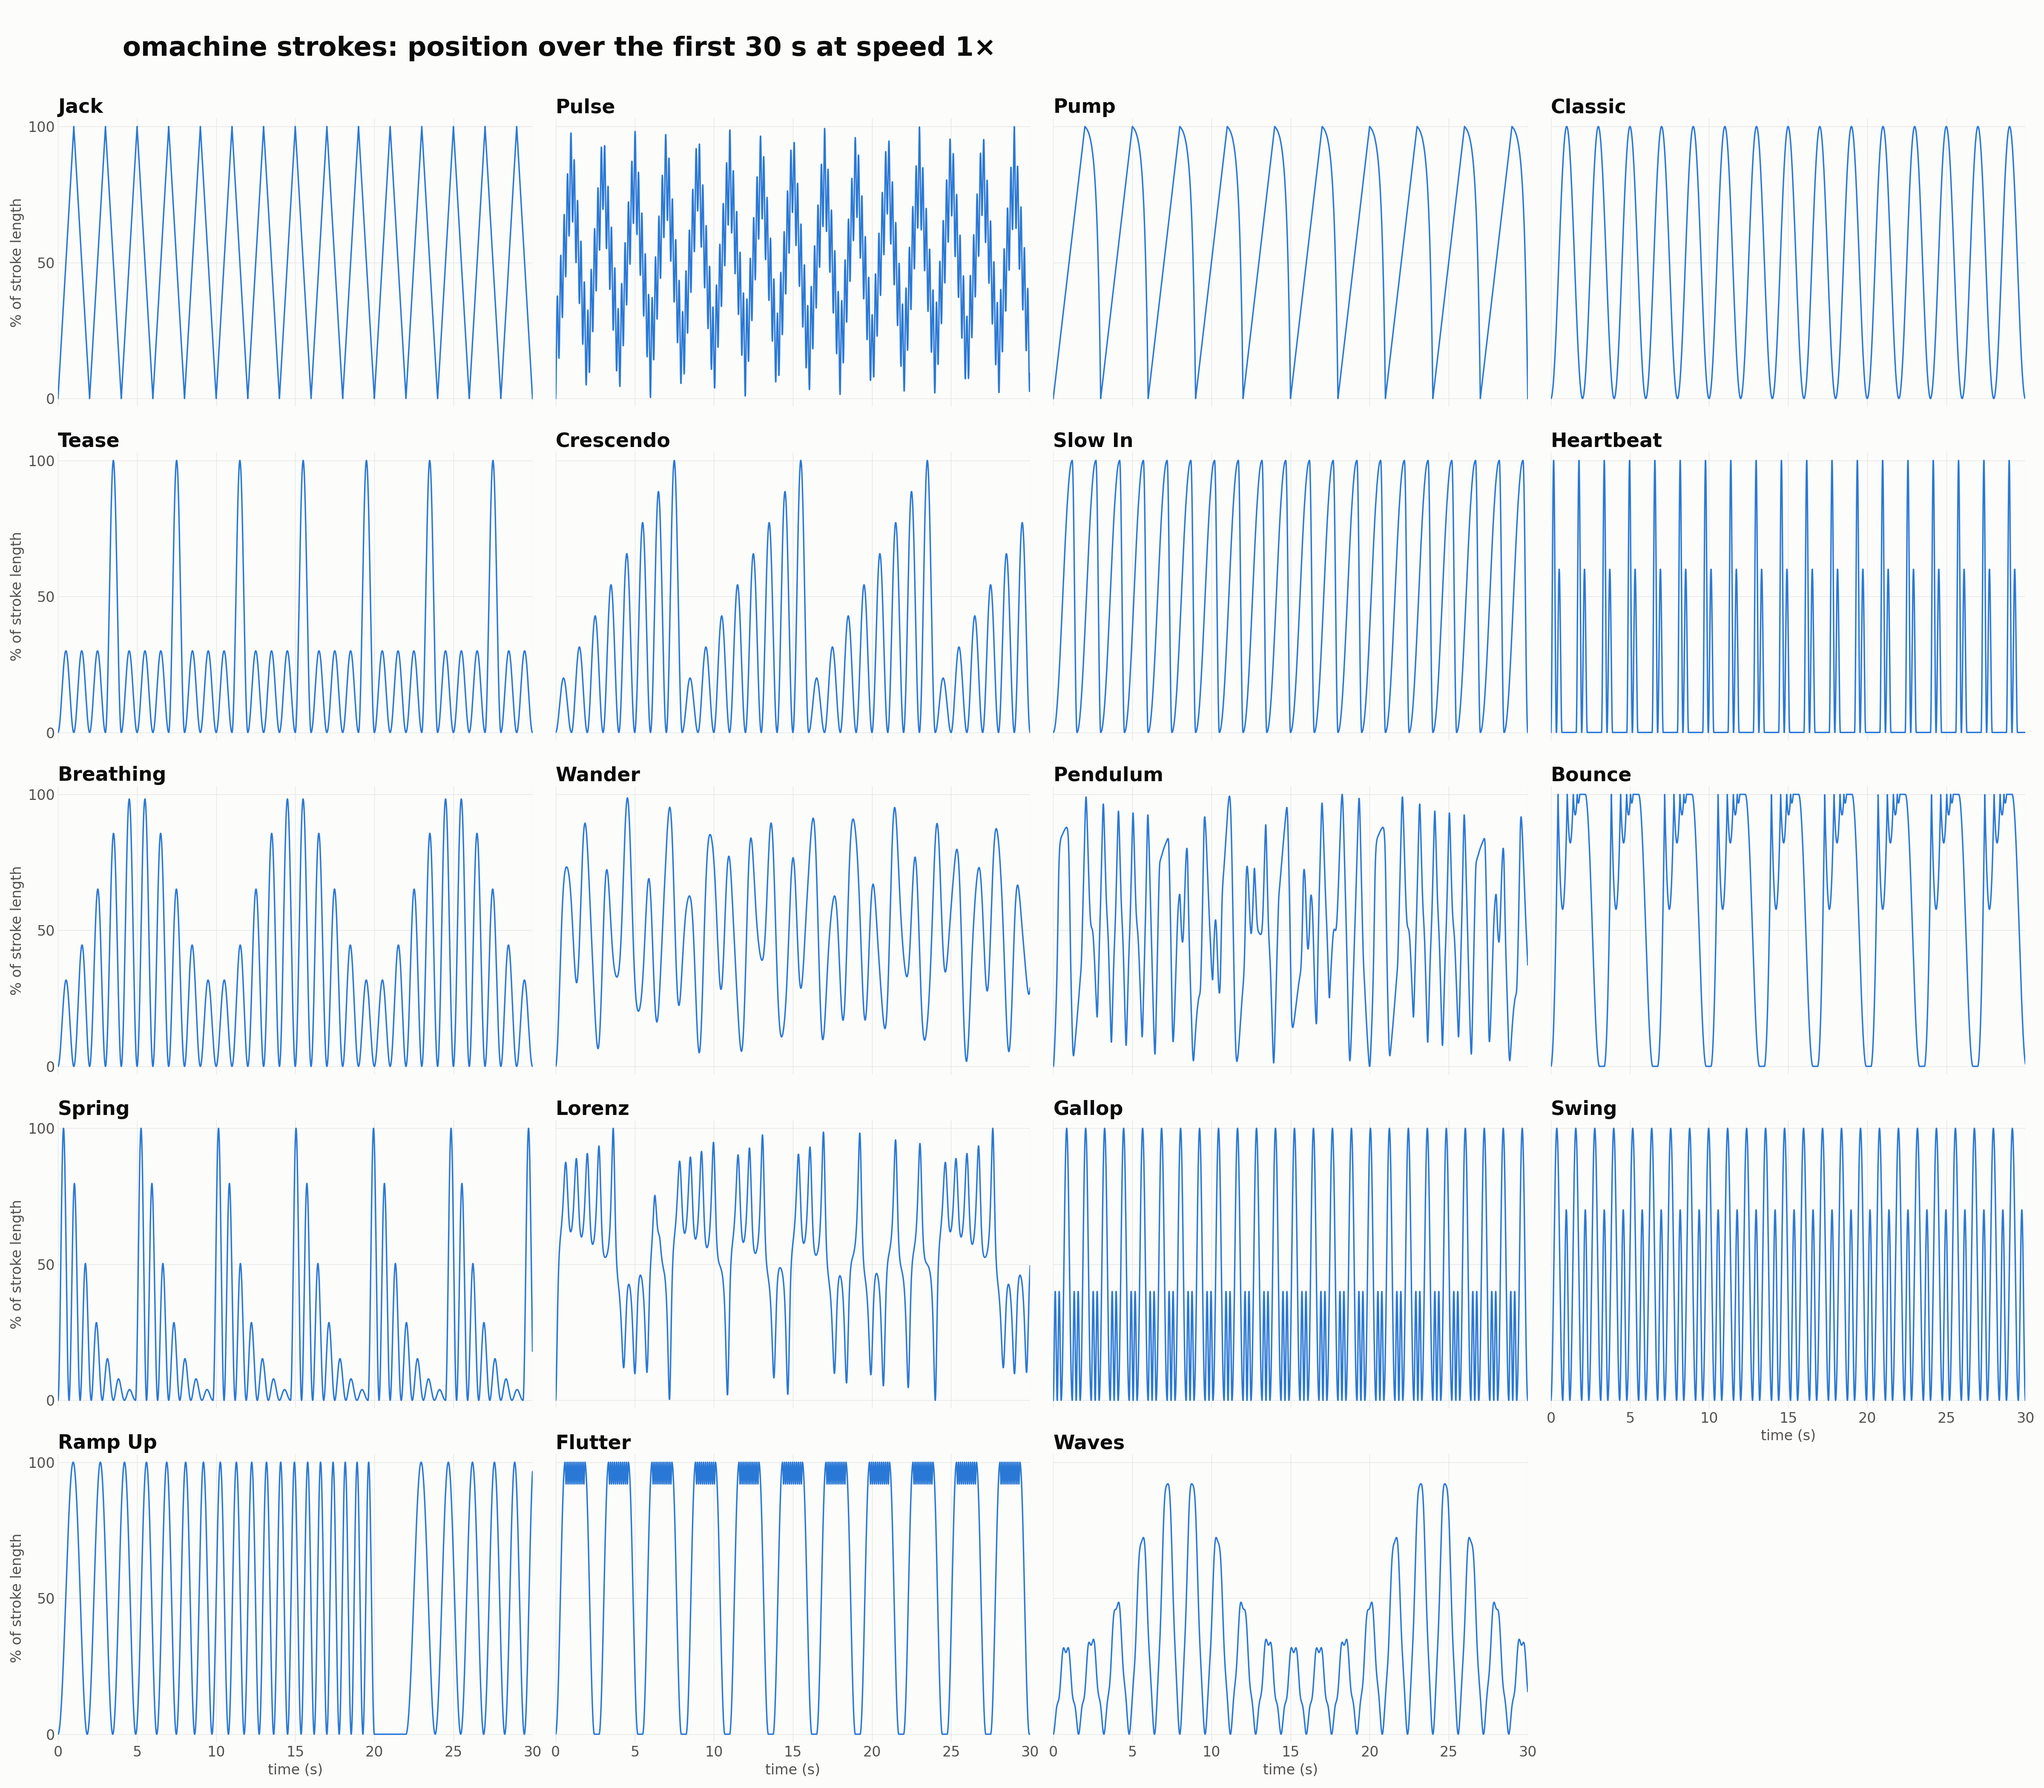
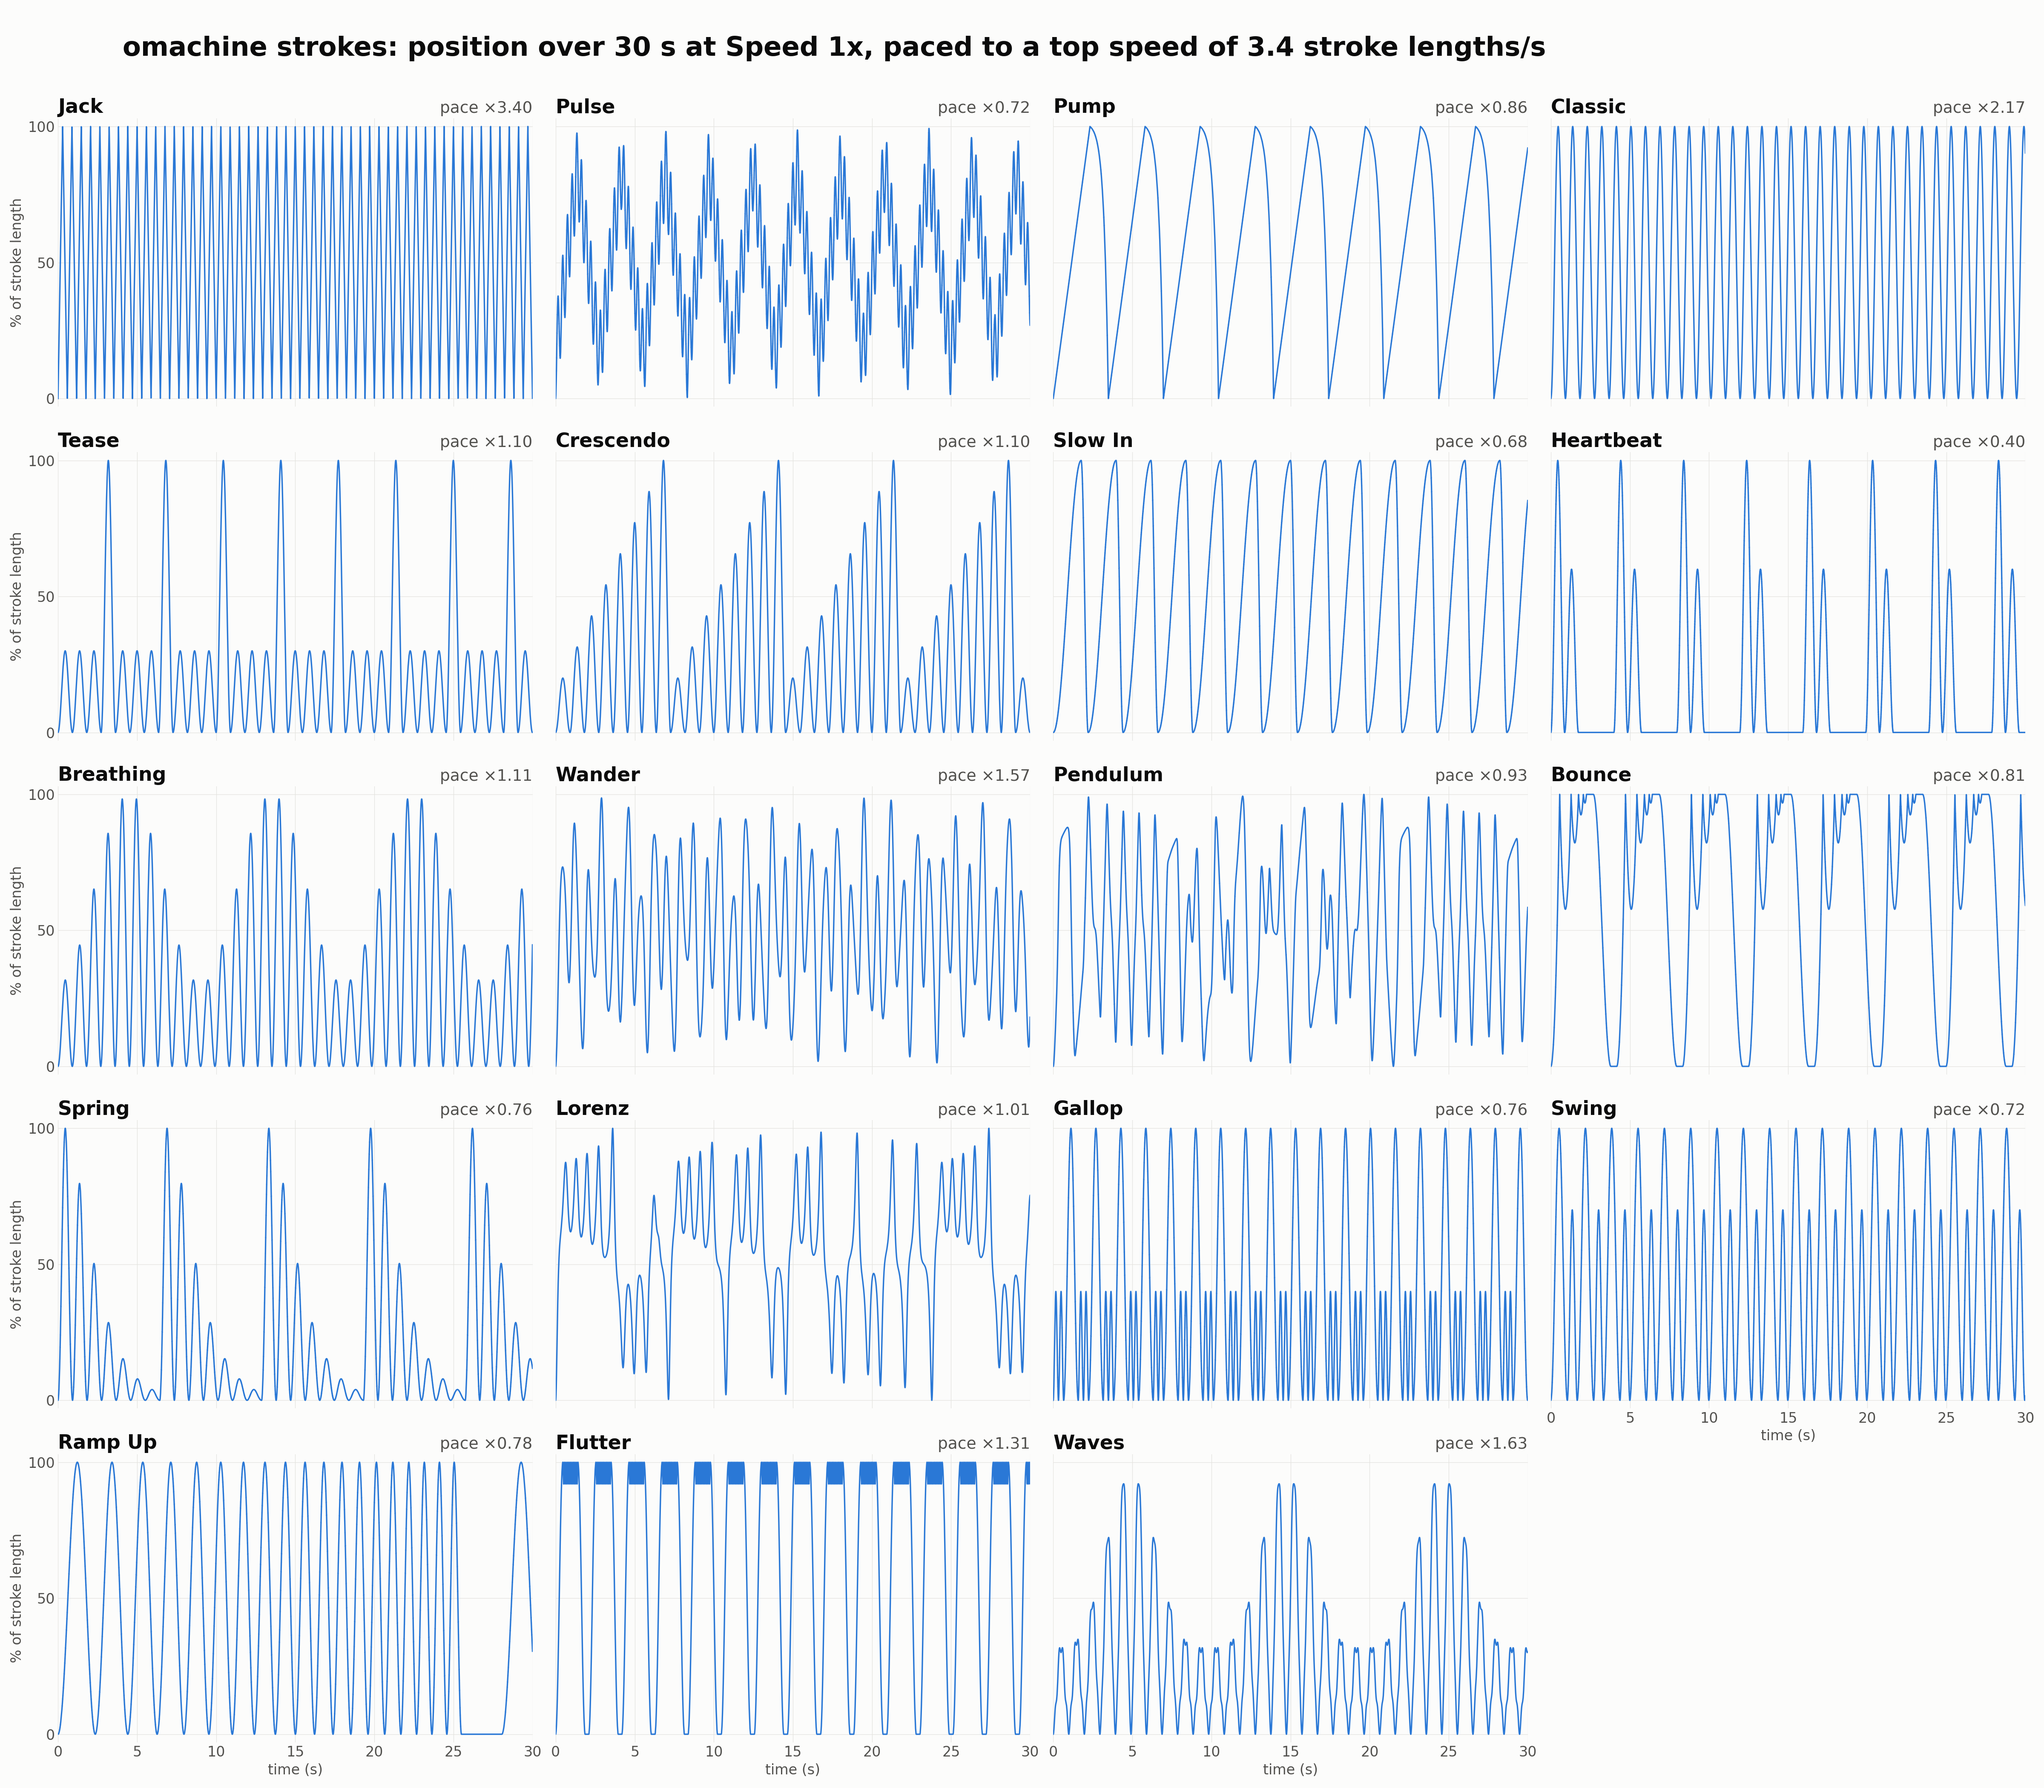
Pace the strokes to one top speed, and a script to graph them
The strokes' top speeds differed by more than 8:1 at the same Speed
setting (Jack 1.0 stroke lengths/s at 1x, Heartbeat 8.5). Each stroke
now plays at its own pace, STROKE_TOP_SPEED (3.4, about the middle
stroke) divided by its own top speed, measured at start-up from the
stroke function itself, so they all peak at 3.4-3.8 and a new stroke is
paced without any tuning.

tools/plot_strokes.py compiles main/strokes.c for the computer it runs
on and redraws docs/strokes.png as the machine plays the strokes, with
each one's pace. It prints each stroke's own top speed and pace, and
suggests STROKE_TOP_SPEED (the median) when the strokes change. The
graph is redrawn with it; the README and strokes.h say how.

diff --git a/controller/tools/plot_strokes.py b/controller/tools/plot_strokes.py
@@ -1,0 +1,141 @@
+#!/usr/bin/env python3
+# SPDX-FileCopyrightText: 2026 MattEdm
+# SPDX-License-Identifier: GPL-3.0-or-later
+"""Draw every auto stroke into docs/strokes.png, one graph each.
+
+It compiles the controller's own main/strokes.c for this computer, so the graphs are exactly what
+the firmware plays: each stroke's position over 30 s at Speed 1x (the Speed setting 19), with its
+pacing (stroke_pace()), as a share of the stroke's length. New strokes appear by themselves.
+
+It also prints each stroke's own top speed and its pace factor (shown in its graph's title too),
+and suggests STROKE_TOP_SPEED for main/strokes.h: the median of the strokes' top speeds, which
+keeps the middle stroke playing as written. Change it there if the suggestion differs.
+
+Needs a C compiler (gcc or cc) and Python with numpy and matplotlib. Run from anywhere:
+
+    python3 controller/tools/plot_strokes.py
+"""
+import math
+import os
+import shutil
+import subprocess
+import sys
+import tempfile
+
+import numpy as np
+import matplotlib
+
+matplotlib.use('Agg')
+import matplotlib.pyplot as plt
+
+CONTROLLER = os.path.dirname(os.path.dirname(os.path.abspath(__file__)))
+MAIN = os.path.join(CONTROLLER, 'main')
+OUT = os.path.join(os.path.dirname(CONTROLLER), 'docs', 'strokes.png')
+SECONDS = 30
+COLUMNS = 4
+
+# Prints "TOP,<STROKE_TOP_SPEED>", then each stroke as "name,pace,p0,p1,...": its pace factor, then
+# its position (0..1) every millisecond of real time at Speed 1x, played at its pace, as the
+# controller does.
+HARNESS = r'''
+#include <stdio.h>
+#include "strokes.h"
+int main(void)
+{
+    strokes_init();
+    printf("TOP,%.4f\n", (double)STROKE_TOP_SPEED);
+    for (int i = 0; i < STROKE_COUNT; i++) {
+        float pace = stroke_pace((stroke_id_t)i);
+        printf("%s,%.6f", stroke_name((stroke_id_t)i), (double)pace);
+        for (unsigned ms = 0; ms <= SECONDS_MS; ms++) {
+            printf(",%.4f", stroke_eval((stroke_id_t)i, (uint32_t)(ms * pace), 1.0f));
+        }
+        printf("\n");
+    }
+    return 0;
+}
+'''
+
+
+def sample_strokes():
+    cc = shutil.which('gcc') or shutil.which('cc')
+    if cc is None:
+        sys.exit('No C compiler found: install gcc (it compiles main/strokes.c to sample the strokes).')
+    with tempfile.TemporaryDirectory() as tmp:
+        src = os.path.join(tmp, 'harness.c')
+        exe = os.path.join(tmp, 'harness')
+        with open(src, 'w') as f:
+            f.write(HARNESS)
+        subprocess.run([cc, '-O2', f'-DSECONDS_MS={SECONDS * 1000}', '-I', MAIN, '-o', exe, src,
+                        os.path.join(MAIN, 'strokes.c'), '-lm'], check=True)
+        out = subprocess.run([exe], check=True, capture_output=True, text=True).stdout
+    lines = out.splitlines()
+    top = float(lines[0].split(',')[1])
+    strokes = []
+    for line in lines[1:]:
+        name, pace, *values = line.split(',')
+        strokes.append((name, float(pace), np.array(values, dtype=float)))
+    return top, strokes
+
+
+def report(top, strokes):
+    """Each stroke's own top speed and pace, and the suggested STROKE_TOP_SPEED."""
+    print(f"{'Stroke':<16}{'own top speed':>16}{'pace':>8}")
+    own = []
+    for name, pace, _ in strokes:
+        speed = top / pace   # pace = STROKE_TOP_SPEED / the stroke's own top speed
+        own.append(speed)
+        print(f'{name:<16}{speed:>10.2f} len/s{pace:>8.2f}x')
+    suggested = float(np.median(own))
+    print(f'\nSTROKE_TOP_SPEED is {top:g} lengths/s (main/strokes.h); '
+          f'the median of the strokes is {suggested:.2f}.')
+    if abs(suggested - top) > 0.05 * top:
+        print(f'Suggested: #define STROKE_TOP_SPEED {suggested:.1f}f  '
+              '(so the middle stroke plays as written; strokes then run at the same top speed as each other either way)')
+    else:
+        print('That matches: no change needed.')
+
+
+def plot(top, strokes):
+    ink, ink2, grid, blue, paper = '#0b0b0b', '#52514e', '#e4e3df', '#2a78d6', '#fcfcfb'
+    rows = math.ceil(len(strokes) / COLUMNS)
+    fig, axs = plt.subplots(rows, COLUMNS, figsize=(32, 5.6 * rows), sharex=True, sharey=True,
+                            facecolor=paper, squeeze=False)
+    t = np.arange(SECONDS * 1000 + 1) / 1000.0
+    for ax, (name, pace, pos) in zip(axs.flat, strokes):
+        ax.set_facecolor(paper)
+        ax.plot(t, pos * 100, color=blue, lw=1.6)
+        ax.set_title(name, loc='left', color=ink, fontsize=22, fontweight='bold')
+        ax.set_title(f'pace \u00d7{pace:.2f}', loc='right', color=ink2, fontsize=18)
+        ax.set_xlim(0, SECONDS)
+        ax.set_ylim(-3, 103)
+        ax.set_yticks([0, 50, 100])
+        ax.set_xticks(range(0, SECONDS + 1, 5))
+        ax.grid(color=grid, lw=0.6)
+        ax.tick_params(colors=ink2, labelsize=16, length=0)
+        for spine in ax.spines.values():
+            spine.set_visible(False)
+    for ax in list(axs.flat)[len(strokes):]:
+        ax.axis('off')
+    # time labels under the last graph in each column
+    for col in range(COLUMNS):
+        filled = [r for r in range(rows) if r * COLUMNS + col < len(strokes)]
+        if filled:
+            ax = axs[filled[-1], col]
+            ax.tick_params(labelbottom=True)
+            ax.set_xlabel('time (s)', color=ink2, fontsize=16)
+    for ax in axs[:, 0]:
+        ax.set_ylabel('% of stroke length', color=ink2, fontsize=16)
+    fig.suptitle(f'omachine strokes: position over 30 s at Speed 1x, paced to a top speed of '
+                 f'{top:g} stroke lengths/s', x=0.06, ha='left',
+                 color=ink, fontsize=30, fontweight='bold')
+    fig.tight_layout(rect=(0, 0, 1, 0.97))
+    os.makedirs(os.path.dirname(OUT), exist_ok=True)
+    fig.savefig(OUT, dpi=150)
+    print(f'{OUT}: {len(strokes)} strokes')
+
+
+if __name__ == '__main__':
+    top, strokes = sample_strokes()
+    report(top, strokes)
+    plot(top, strokes)

diff --git a/controller/main/strokes.h b/controller/main/strokes.h
@@ -3,6 +3,9 @@
 // The auto strokes. Each is a function of time (strokes.c) that gives the offset into the stroke,
 // 0..length, scaled to the Length setting; the Speed setting scales its time.
 //
+// Strokes can be written at any pace: each is played at its own rate so that all of them reach the
+// same top speed at a given Speed setting (stroke_pace()). What matters is a stroke's shape.
+//
 // To change a stroke, edit its function in strokes.c. To add one:
 //   1. write its function in strokes.c: start at 0 when millis is 0, and repeat smoothly
 //      (end where it started, without a jump in position or speed);
@@ -10,7 +13,7 @@
 //   3. add it to s_strokes[] in strokes.c, with its name (what the handle shows).
 // The handle gets the names from the controller over the link, so nothing changes on the manipulator.
 // Names can be up to OM_STROKE_NAME_LEN - 1 (15) characters, and there can be up to OM_MAX_STROKES.
-// The knob steps through them in this order. Stroke tables made from simulations (Pendulum,
+// The knob steps through them in this order. tools/plot_strokes.py redraws docs/strokes.png. Stroke tables made from simulations (Pendulum,
 // Lorenz) come from tools/gen_loop_strokes.py.
 #pragma once
 
@@ -47,6 +50,16 @@ typedef enum {
 float stroke_eval(stroke_id_t stroke, uint32_t millis, float length);
 // Its name, as the handle shows it
 const char *stroke_name(stroke_id_t stroke);
+// The top speed every stroke is paced to, in stroke lengths per second at Speed 1x. It's the median
+// of the strokes' own top speeds, so the middle stroke plays as written; tools/plot_strokes.py
+// prints each stroke's top speed and pace, and suggests this value after the strokes change.
+#define STROKE_TOP_SPEED 3.4f
+
+// How fast its time runs (times the Speed setting's rate), so that every stroke reaches the same top
+// speed at the same Speed setting; measured from the stroke itself, so a new stroke is paced too
+float stroke_pace(stroke_id_t stroke);
+// Measures every stroke's pace now, so choosing one doesn't take a moment in the control loop
+void strokes_init(void);
 
 #ifdef __cplusplus
 }

diff --git a/controller/main/strokes.c b/controller/main/strokes.c
@@ -320,6 +320,39 @@ float stroke_eval(stroke_id_t stroke, uint32_t millis, float length)
     return s_strokes[stroke].fn(millis, length);
 }
 
+// Pacing: each stroke's time runs at STROKE_TOP_SPEED (strokes.h) / its own top speed, so every
+// stroke peaks at the same speed at the same Speed setting. The top speed is the fastest it covers
+// any 50 ms, measured once from the function itself (so a new stroke is paced too), over STROKE_PACE_SPAN_MS.
+#define STROKE_PACE_STEP_MS   50u
+#define STROKE_PACE_SPAN_MS   32000u  // longer than any stroke's repeat
+
+static float s_pace[STROKE_COUNT];   // 0 until measured
+
+float stroke_pace(stroke_id_t stroke)
+{
+    if (stroke >= STROKE_COUNT) {
+        return 1.0f;
+    }
+    if (s_pace[stroke] == 0.0f) {
+        float peak = 0.0f;
+        float prev = s_strokes[stroke].fn(0, 1.0f);
+        for (uint32_t t = STROKE_PACE_STEP_MS; t <= STROKE_PACE_SPAN_MS; t += STROKE_PACE_STEP_MS) {
+            float now = s_strokes[stroke].fn(t, 1.0f);
+            peak = fmaxf(peak, fabsf(now - prev) * (1000.0f / STROKE_PACE_STEP_MS));
+            prev = now;
+        }
+        s_pace[stroke] = (peak > 0.0f) ? STROKE_TOP_SPEED / peak : 1.0f;
+    }
+    return s_pace[stroke];
+}
+
+void strokes_init(void)
+{
+    for (int i = 0; i < STROKE_COUNT; i++) {
+        stroke_pace((stroke_id_t)i);
+    }
+}
+
 const char *stroke_name(stroke_id_t stroke)
 {
     return stroke < STROKE_COUNT ? s_strokes[stroke].name : "?";

diff --git a/controller/main/twai_odrive_control.c b/controller/main/twai_odrive_control.c
@@ -826,6 +826,8 @@ void odrive_task(void *pvParameters) {
     request_state_event(BUTTON_ODRIVE_RECOVERED);   // back to INITIAL, if the start-up had a fault shown
     request_state_event(BUTTON_HOMING_STARTED);
 
+    strokes_init();   // measure the strokes' pacing before the loop needs it
+
     // Wait for a position, then find the ends of the rail
     if (xSemaphoreTake(EncoderEstimate_semaphore, -1) == pdTRUE) {
         initial_position = EncoderEstimate;
@@ -1015,7 +1017,8 @@ void odrive_task(void *pvParameters) {
                 }
                 break;
             }
-            stroke_ms += (float)dt_ms * (float)(control.speed_pct + 1) / 20.0f;
+            stroke_ms += (float)dt_ms * (float)(control.speed_pct + 1) / 20.0f
+                         * stroke_pace((stroke_id_t)control.stroke_index);
             offset = stroke_eval((stroke_id_t)control.stroke_index, (uint32_t)stroke_ms, stroke_len);
             target = controller_target + offset;
             break;

diff --git a/controller/README.md b/controller/README.md
@@ -62,8 +62,13 @@ button retries.
 
 The auto strokes are all in [`main/strokes.c`](main/strokes.c), one function each, and the top of
 [`main/strokes.h`](main/strokes.h) explains how to change one or add one. The handle gets the
-names from the controller, so only the controller changes. [`docs/strokes.png`](../docs/strokes.png)
-graphs them all.
+names from the controller, so only the controller changes. Strokes can be written at any pace:
+each is played at its own rate (`stroke_pace()`) so that all of them reach the same top speed at a
+given Speed setting.
+
+[`docs/strokes.png`](../docs/strokes.png) graphs them all as the machine plays them. After
+changing the strokes, redraw it with `python3 tools/plot_strokes.py` (it needs gcc, numpy and
+matplotlib; it compiles `main/strokes.c` for your computer, so new strokes appear by themselves).
 
 Pendulum and Lorenz play back tables made from simulations by
 [`tools/gen_loop_strokes.py`](tools/gen_loop_strokes.py).
